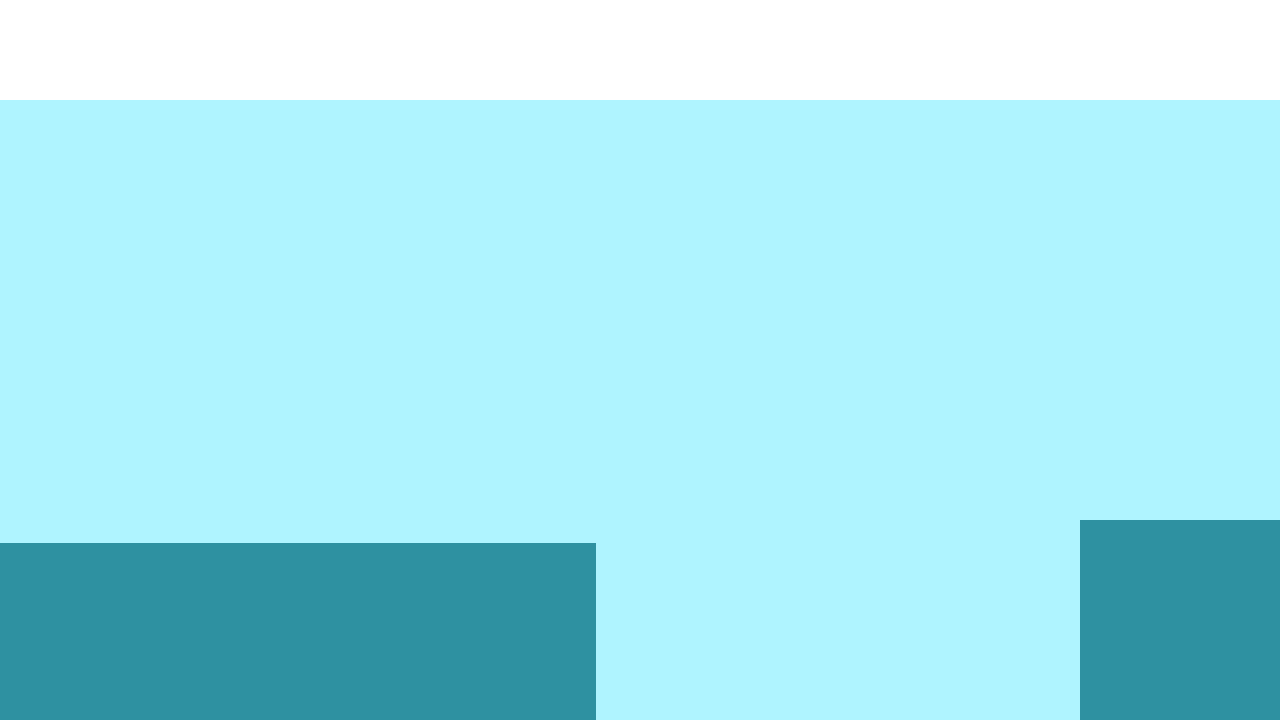
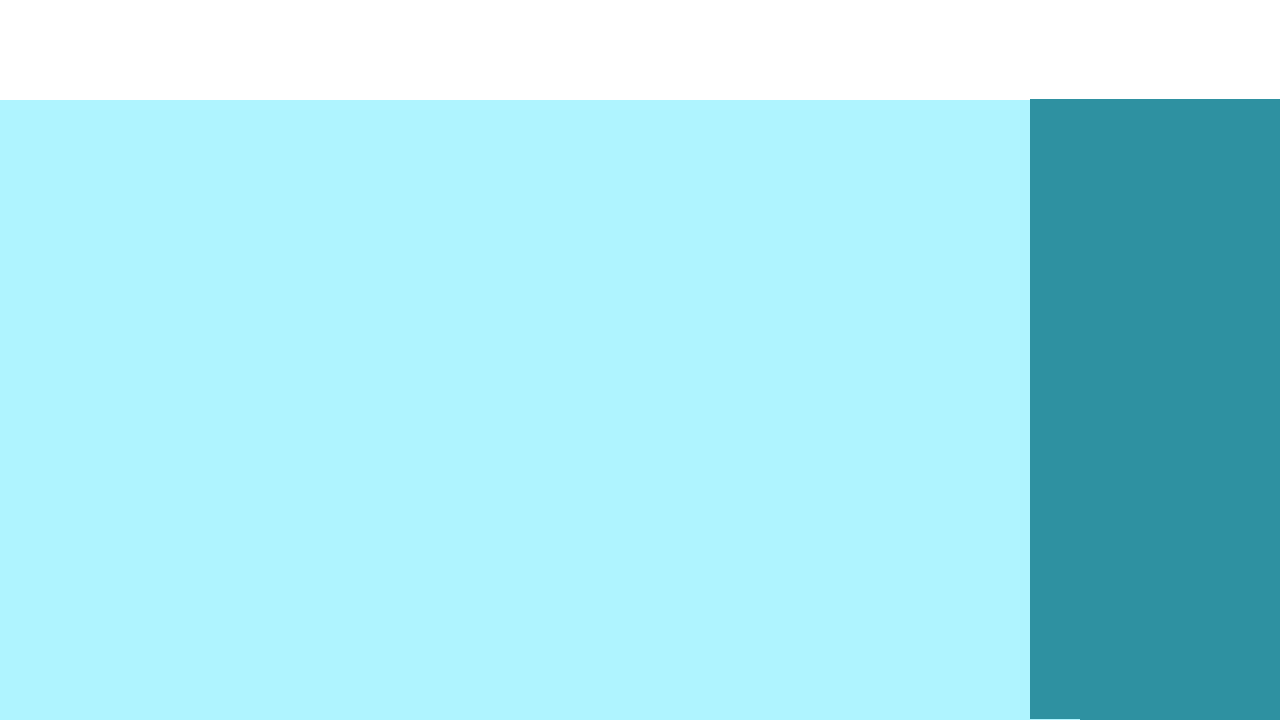
slightly changed the UI to have a sidebar

Changed region(s): [[0.7812, 0.1222, 1.0, 1.0], [0.0, 0.7333, 0.4688, 1.0]]

diff --git a/core/src/gameworld/GameRenderer.java b/core/src/gameworld/GameRenderer.java
@@ -93,7 +93,7 @@ public class GameRenderer {
         batcher.enableBlending();
 
         //render background!
-        batcher.draw(AssetLoader.gameBackground, 0, 0);
+        batcher.draw(AssetLoader.gameBackground, 0, 0, 1280*GameConstants.SCALE_X, 720*GameConstants.SCALE_Y);
 
         renderItems(myWorld.getSimple_item_buffer().items_currently_appearing);
         renderPlayers(players);

diff --git a/core/src/gameobjects/Player.java b/core/src/gameobjects/Player.java
@@ -67,7 +67,7 @@ public class Player implements GameObject {
             }
         }
         if(right) {
-            if(!(position.x >=1180)) {
+            if(!(position.x >=930)) {
                 position.x += velocity * delta;
             }
         } else if(left) {
